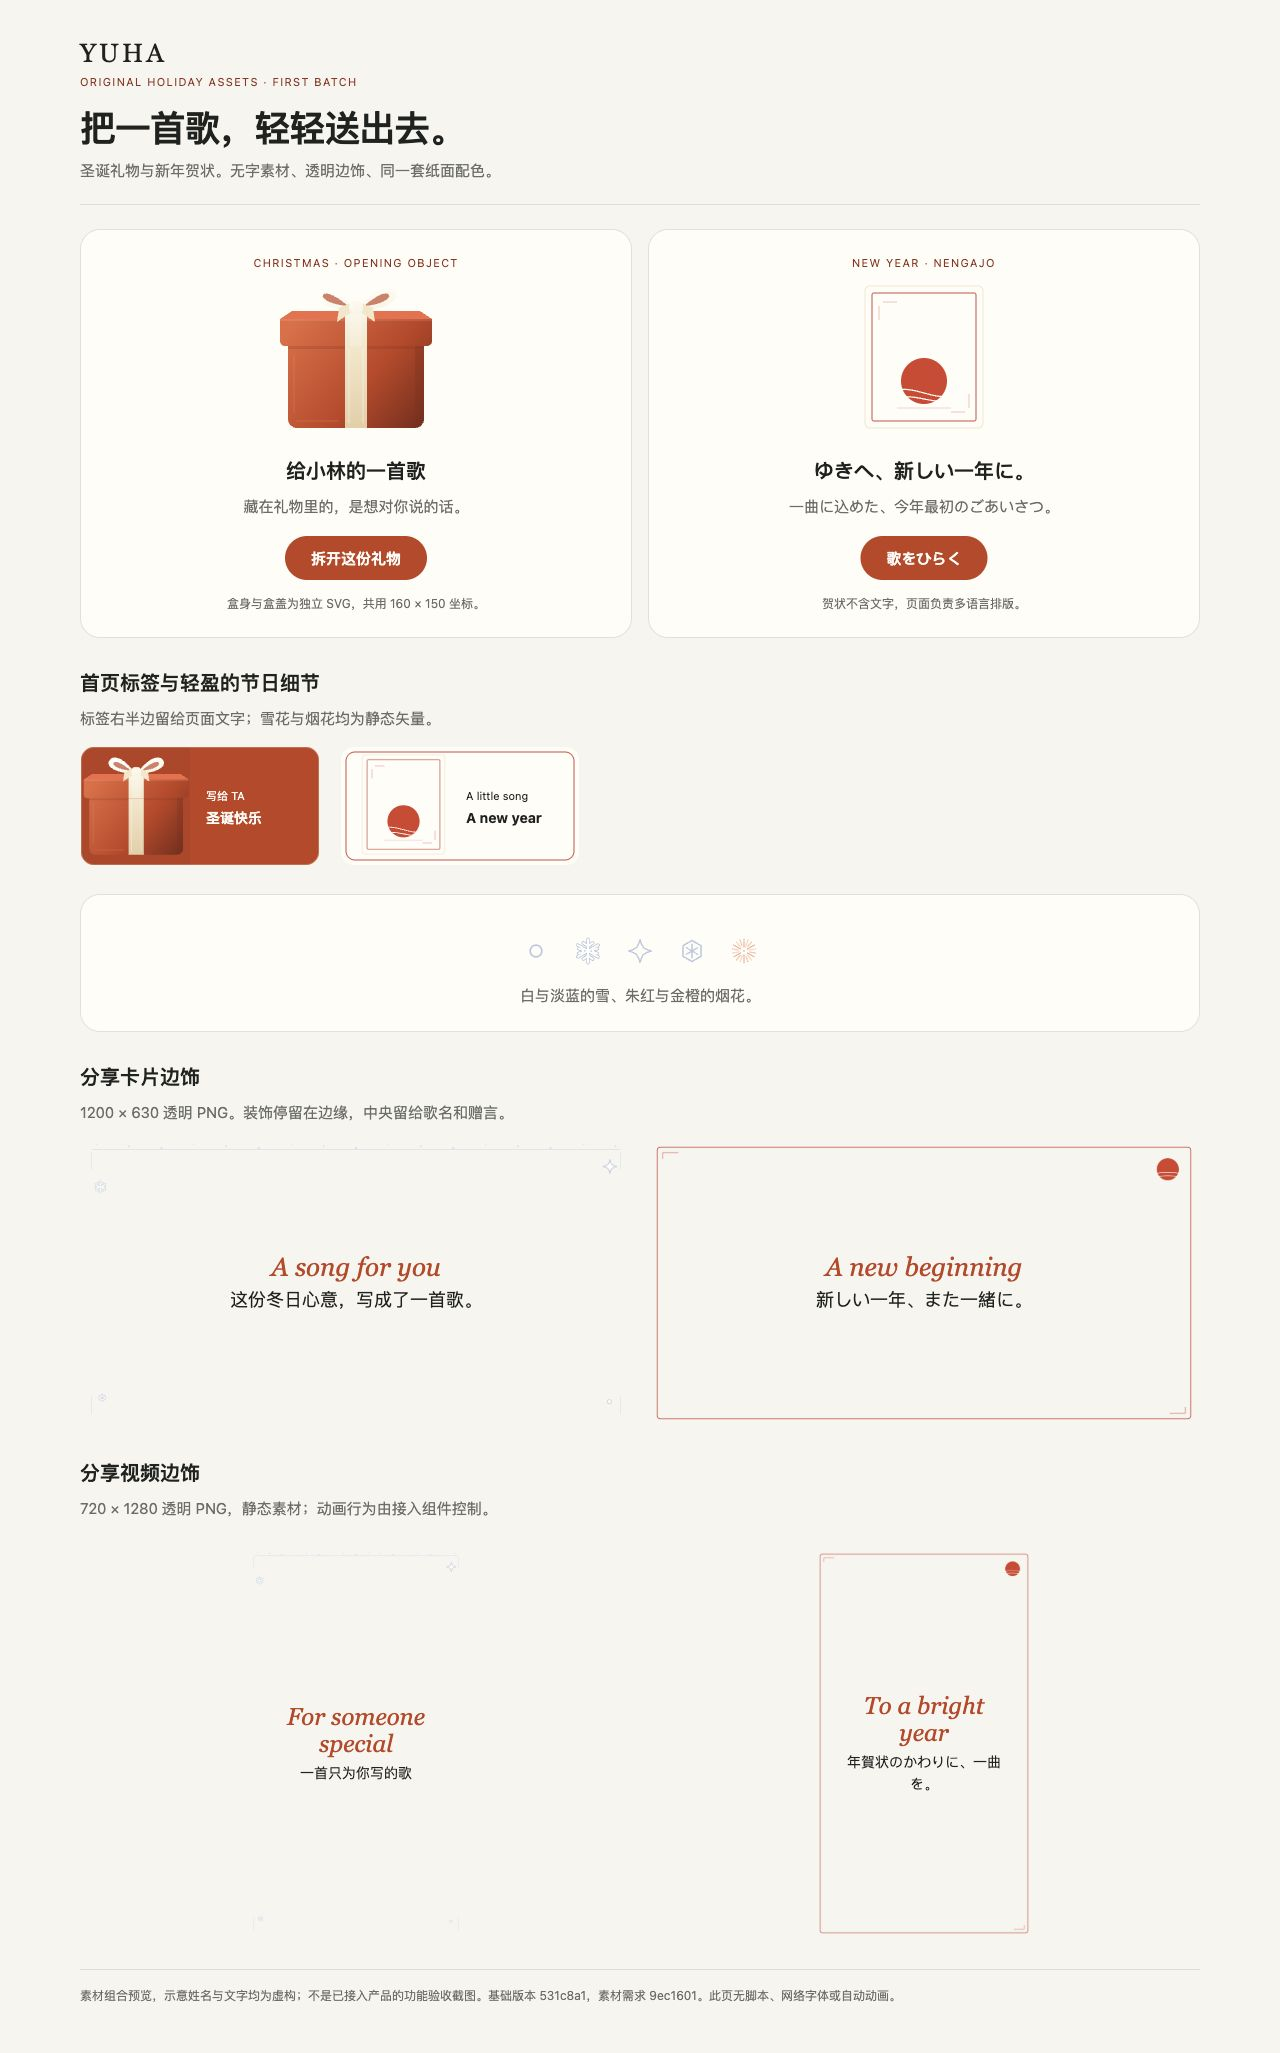
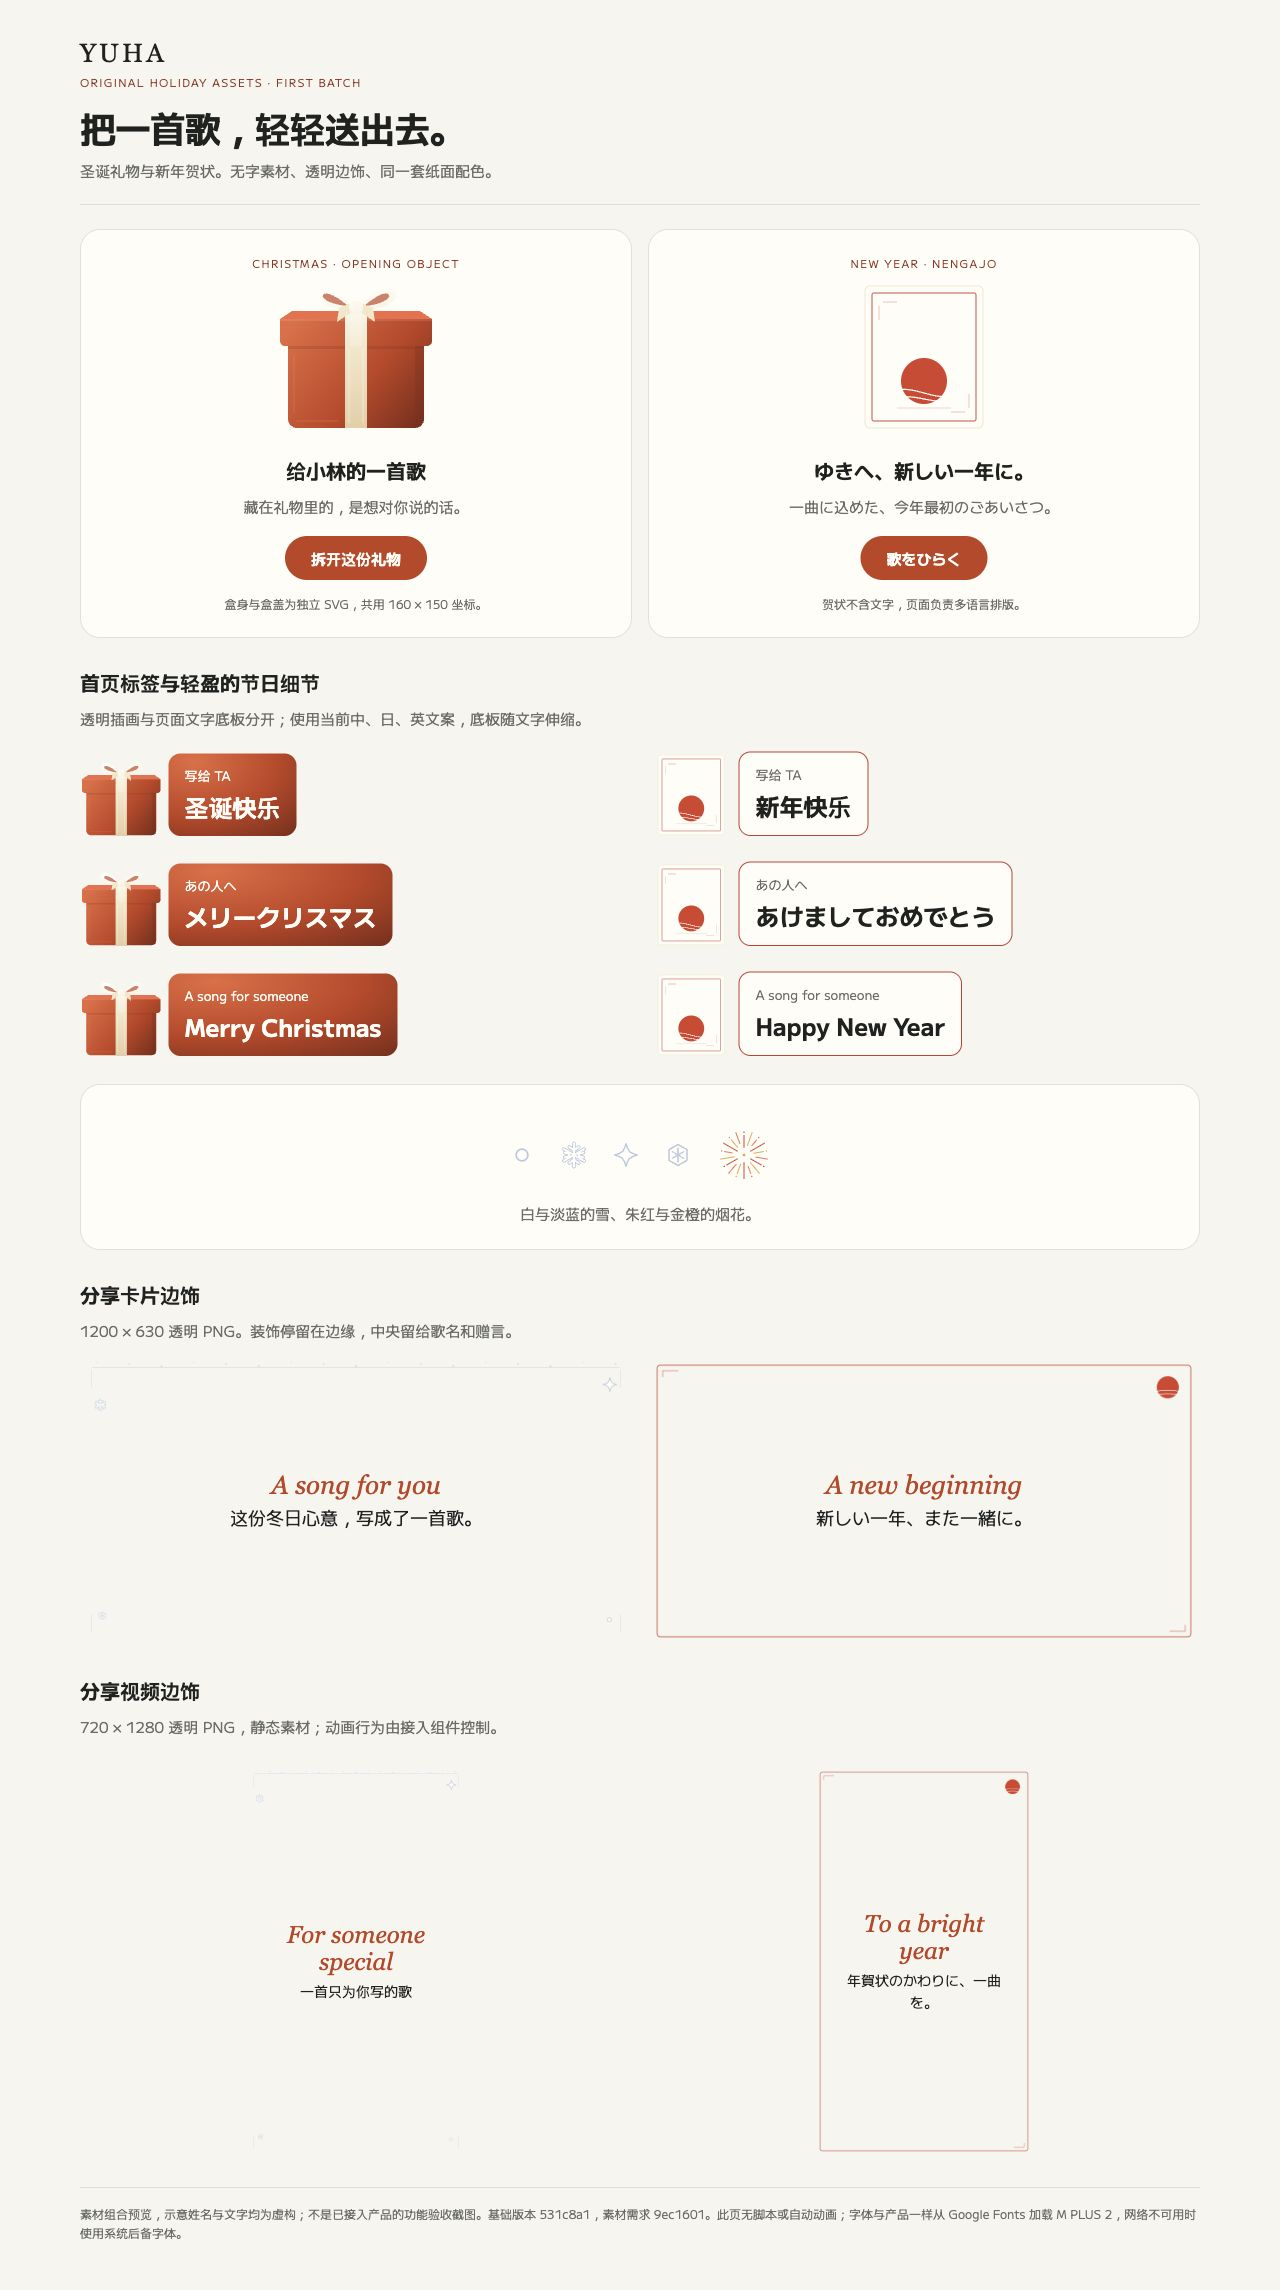
Separate holiday tag artwork from responsive text plates

diff --git a/docs/agents/visual-previews/holiday-preview.html b/docs/agents/visual-previews/holiday-preview.html
@@ -3,8 +3,10 @@
 <meta charset="utf-8">
 <meta name="viewport" content="width=device-width,initial-scale=1">
 <title>YUHA 节日素材预览</title>
+<link rel="stylesheet" href="https://fonts.googleapis.com/css2?family=M+PLUS+2:wght@400;500;700&amp;display=swap">
 <style>
-*{box-sizing:border-box}body{margin:0;background:#f6f5f0;color:#20221f;font:15px/1.6 system-ui,sans-serif}main{max-width:1160px;margin:auto;padding:32px 20px 48px}header{border-bottom:1px solid #dddcd4;padding-bottom:22px;margin-bottom:24px}.brand{font-family:Georgia,serif;font-size:26px;letter-spacing:.12em}h1{font-size:clamp(24px,4vw,36px);line-height:1.25;margin:14px 0 8px;letter-spacing:-.03em}h2{font-size:20px;margin:0 0 8px}p{margin:0;color:#6b6d66}.eyebrow{font-size:11px;letter-spacing:.12em;text-transform:uppercase;color:#92331e}.grid{display:grid;grid-template-columns:1fr 1fr;gap:16px}.panel{background:#fffdf8;border:1px solid #e2e0d6;border-radius:20px;padding:24px;text-align:center}.object{height:150px;width:160px;position:relative;margin:10px auto 22px}.object img{position:absolute;inset:0;width:100%;height:100%}.card-object img{object-fit:contain}.cta{display:inline-block;background:#c2411f;color:#fffdf8;border-radius:100px;padding:10px 26px;font-weight:600;margin-top:18px}.note{font-size:12px;color:#6b6d66;margin-top:14px}.section{margin-top:28px}.tags{display:flex;gap:20px;flex-wrap:wrap;margin-top:16px}.tag{position:relative;width:240px;height:120px;flex:none}.tag img{display:block;width:100%;height:100%}.tag-copy{position:absolute;inset:26px 16px 22px 126px;display:grid;align-content:center;gap:3px;color:#fffdf8;line-height:1.45;font-size:11px}.tag-copy strong{font-size:14px}.tag-newyear .tag-copy{color:#20221f}.flakes{display:flex;gap:24px;align-items:center;justify-content:center;margin:18px 0}.flakes img{width:28px;height:28px}.firework{width:80px;height:80px}.trim-grid{display:grid;grid-template-columns:1fr 1fr;gap:16px;margin-top:14px}.trim{position:relative;aspect-ratio:1200/630;background:#f6f5f0;border-radius:12px;overflow:hidden}.trim>img{width:100%;height:100%;position:absolute;inset:0}.trim-caption{position:absolute;inset:26% 16%;display:grid;align-content:center;justify-items:center;text-align:center;font-size:clamp(12px,1.5vw,18px)}.trim-caption b{font:italic 26px Georgia,serif;color:#c2411f;margin-bottom:4px}.portrait{aspect-ratio:720/1280;max-width:220px;width:100%;margin:0 auto}.portrait .trim-caption{inset:25% 14%;font-size:14px}.portrait .trim-caption b{font-size:24px}footer{margin-top:30px;border-top:1px solid #dddcd4;padding-top:16px;font-size:12px;color:#6b6d66}@media(max-width:620px){main{padding:24px 16px}.grid,.trim-grid{grid-template-columns:1fr}.panel{padding:22px 16px}.tags{justify-content:center}.trim-caption{font-size:12px}.trim-caption b{font-size:21px}.portrait{max-width:220px}}
+*{box-sizing:border-box}body{margin:0;background:#f6f5f0;color:#20221f;font:15px/1.6 "M PLUS 2","PingFang SC",system-ui,sans-serif}main{max-width:1160px;margin:auto;padding:32px 20px 48px}header{border-bottom:1px solid #dddcd4;padding-bottom:22px;margin-bottom:24px}.brand{font-family:Georgia,serif;font-size:26px;letter-spacing:.12em}h1{font-size:clamp(24px,4vw,36px);line-height:1.25;margin:14px 0 8px;letter-spacing:-.03em}h2{font-size:20px;margin:0 0 8px}p{margin:0;color:#6b6d66}.eyebrow{font-size:11px;letter-spacing:.12em;text-transform:uppercase;color:#92331e}.grid{display:grid;grid-template-columns:1fr 1fr;gap:16px}.panel{background:#fffdf8;border:1px solid #e2e0d6;border-radius:20px;padding:24px;text-align:center}.object{height:150px;width:160px;position:relative;margin:10px auto 22px}.object img{position:absolute;inset:0;width:100%;height:100%}.card-object img{object-fit:contain}.cta{display:inline-block;background:#c2411f;color:#fffdf8;border-radius:100px;padding:10px 26px;font-weight:600;margin-top:18px}.note{font-size:12px;color:#6b6d66;margin-top:14px}.section{margin-top:28px}.tags{display:grid;grid-template-columns:repeat(2,minmax(0,1fr));gap:20px;margin-top:16px}.tag{display:flex;align-items:flex-end;max-width:100%;gap:6px;min-width:0}.tag img{display:block;width:82.5px;height:90px;flex:none}.tag-copy{display:grid;align-content:center;gap:3px;min-width:0;padding:12px 16px;border-radius:12px;color:#fffdf8;background:radial-gradient(120% 120% at 20% 10%,#E8693F 0%,#C2411F 55%,#7E2A17 100%);font-size:13px;line-height:1.5}.tag-copy strong{font-size:clamp(16.8px,5vw,24px);font-weight:700;white-space:nowrap}.tag-newyear .tag-copy{color:#20221f;background:#fffdf8;border:1px solid #c8372a}.tag-newyear .tag-copy span{color:#6b6d66}.flakes{display:flex;gap:24px;align-items:center;justify-content:center;margin:18px 0}.flakes img{width:28px;height:28px}.flakes .firework{width:56px;height:56px}.trim-grid{display:grid;grid-template-columns:1fr 1fr;gap:16px;margin-top:14px}.trim{position:relative;aspect-ratio:1200/630;background:#f6f5f0;border-radius:12px;overflow:hidden}.trim>img{width:100%;height:100%;position:absolute;inset:0}.trim-caption{position:absolute;inset:26% 16%;display:grid;align-content:center;justify-items:center;text-align:center;font-size:clamp(12px,1.5vw,18px)}.trim-caption b{font:italic 26px Georgia,serif;color:#c2411f;margin-bottom:4px}.portrait{aspect-ratio:720/1280;max-width:220px;width:100%;margin:0 auto}.portrait .trim-caption{inset:25% 14%;font-size:14px}.portrait .trim-caption b{font-size:24px}footer{margin-top:30px;border-top:1px solid #dddcd4;padding-top:16px;font-size:12px;color:#6b6d66}@media(max-width:620px){main{padding:24px 16px}.grid,.trim-grid{grid-template-columns:1fr}.panel{padding:22px 16px}.tags{grid-template-columns:minmax(0,1fr)}.trim-caption{font-size:12px}.trim-caption b{font-size:21px}.portrait{max-width:220px}}
+@media(max-width:900px){.tags{grid-template-columns:minmax(0,1fr)}}
 </style>
 <main>
 <header><div class="brand">YUHA</div><div class="eyebrow">Original holiday assets · First batch</div><h1>把一首歌，轻轻送出去。</h1><p>圣诞礼物与新年贺状。无字素材、透明边饰、同一套纸面配色。</p></header>
@@ -12,9 +14,9 @@
 <section class="panel"><div class="eyebrow">Christmas · Opening object</div><div class="object"><img src="../../../apps/web/public/holiday/box.svg" alt=""><img src="../../../apps/web/public/holiday/lid.svg" alt=""></div><h2>给小林的一首歌</h2><p>藏在礼物里的，是想对你说的话。</p><span class="cta">拆开这份礼物</span><div class="note">盒身与盒盖为独立 SVG，共用 160 × 150 坐标。</div></section>
 <section class="panel"><div class="eyebrow">New year · Nengajo</div><div class="object card-object"><img src="../../../apps/web/public/holiday/nengajo.svg" alt=""></div><h2>ゆきへ、新しい一年に。</h2><p>一曲に込めた、今年最初のごあいさつ。</p><span class="cta">歌をひらく</span><div class="note">贺状不含文字，页面负责多语言排版。</div></section>
 </div>
-<section class="section"><h2>首页标签与轻盈的节日细节</h2><p>标签右半边留给页面文字；雪花与烟花均为静态矢量。</p><div class="tags"><div class="tag"><img src="../../../apps/web/public/holiday/tag-xmas.svg" alt=""><div class="tag-copy"><span>写给 TA</span><strong>圣诞快乐</strong></div></div><div class="tag tag-newyear"><img src="../../../apps/web/public/holiday/tag-newyear.svg" alt=""><div class="tag-copy"><span>A little song</span><strong>A new year</strong></div></div></div><div class="panel section"><div class="flakes"><img src="../../../apps/web/public/holiday/snow-1.svg" alt=""><img src="../../../apps/web/public/holiday/snow-2.svg" alt=""><img src="../../../apps/web/public/holiday/snow-3.svg" alt=""><img src="../../../apps/web/public/holiday/snow-4.svg" alt=""><img class="firework" src="../../../apps/web/public/holiday/fireworks.svg" alt=""></div><p>白与淡蓝的雪、朱红与金橙的烟花。</p></div></section>
+<section class="section"><h2>首页标签与轻盈的节日细节</h2><p>透明插画与页面文字底板分开；使用当前中、日、英文案，底板随文字伸缩。</p><div class="tags"><div class="tag tag-xmas" lang="zh"><img src="../../../apps/web/public/holiday/tag-xmas-art.svg" alt=""><div class="tag-copy"><span>写给 TA</span><strong>圣诞快乐</strong></div></div><div class="tag tag-newyear" lang="zh"><img src="../../../apps/web/public/holiday/tag-newyear-art.svg" alt=""><div class="tag-copy"><span>写给 TA</span><strong>新年快乐</strong></div></div><div class="tag tag-xmas" lang="ja"><img src="../../../apps/web/public/holiday/tag-xmas-art.svg" alt=""><div class="tag-copy"><span>あの人へ</span><strong>メリークリスマス</strong></div></div><div class="tag tag-newyear" lang="ja"><img src="../../../apps/web/public/holiday/tag-newyear-art.svg" alt=""><div class="tag-copy"><span>あの人へ</span><strong>あけましておめでとう</strong></div></div><div class="tag tag-xmas" lang="en"><img src="../../../apps/web/public/holiday/tag-xmas-art.svg" alt=""><div class="tag-copy"><span>A song for someone</span><strong>Merry Christmas</strong></div></div><div class="tag tag-newyear" lang="en"><img src="../../../apps/web/public/holiday/tag-newyear-art.svg" alt=""><div class="tag-copy"><span>A song for someone</span><strong>Happy New Year</strong></div></div></div><div class="panel section"><div class="flakes"><img src="../../../apps/web/public/holiday/snow-1.svg" alt=""><img src="../../../apps/web/public/holiday/snow-2.svg" alt=""><img src="../../../apps/web/public/holiday/snow-3.svg" alt=""><img src="../../../apps/web/public/holiday/snow-4.svg" alt=""><img class="firework" src="../../../apps/web/public/holiday/fireworks.svg" alt=""></div><p>白与淡蓝的雪、朱红与金橙的烟花。</p></div></section>
 <section class="section"><h2>分享卡片边饰</h2><p>1200 × 630 透明 PNG。装饰停留在边缘，中央留给歌名和赠言。</p><div class="trim-grid"><div class="trim"><img src="../../../apps/web/public/holiday/xmas.png" alt=""><div class="trim-caption"><b>A song for you</b><span>这份冬日心意，写成了一首歌。</span></div></div><div class="trim"><img src="../../../apps/web/public/holiday/newyear.png" alt=""><div class="trim-caption"><b>A new beginning</b><span>新しい一年、また一緒に。</span></div></div></div></section>
 <section class="section"><h2>分享视频边饰</h2><p>720 × 1280 透明 PNG，静态素材；动画行为由接入组件控制。</p><div class="grid section"><div class="trim portrait"><img src="../../../apps/web/public/holiday/video-xmas.png" alt=""><div class="trim-caption"><b>For someone special</b><span>一首只为你写的歌</span></div></div><div class="trim portrait"><img src="../../../apps/web/public/holiday/video-newyear.png" alt=""><div class="trim-caption"><b>To a bright year</b><span>年賀状のかわりに、一曲を。</span></div></div></div></section>
-<footer>素材组合预览，示意姓名与文字均为虚构；不是已接入产品的功能验收截图。基础版本 531c8a1，素材需求 9ec1601。此页无脚本、网络字体或自动动画。</footer>
+<footer>素材组合预览，示意姓名与文字均为虚构；不是已接入产品的功能验收截图。基础版本 531c8a1，素材需求 9ec1601。此页无脚本或自动动画；字体与产品一样从 Google Fonts 加载 M PLUS 2，网络不可用时使用系统后备字体。</footer>
 </main>
 </html>

diff --git a/docs/agents/visual-previews/holiday-handoff.md b/docs/agents/visual-previews/holiday-handoff.md
@@ -2,13 +2,16 @@
 
 第一批素材对应 `CODEX_VISUAL_REQUESTS.md` 的 1 至 7 项，基础版本为 master `531c8a1`，需求文本自 `9ec1601` 未变。第二批 X 广告图与视频封面不在本次交付中。
 
+标签按 [Claude 的接入审查与方案一请求](https://github.com/lth2015/yuha/pull/90#issuecomment-7074325393) 修订。最初的 96px 固定文字区无法容纳实际日文和英文；当前接入应使用下面两张透明插画，由页面独立排版文字与底板。
+
 ## 素材与接入
 
 | 文件 | 尺寸 | 接入位置与注意事项 |
 | --- | --- | --- |
 | `box.svg`、`lid.svg` | 各 160 × 150 | `HolidayOpening`。两个透明图层共用完整坐标系，盒盖单独向上移动即可拆开；图层应占满 object 的 160 × 150，不要再套用原占位 span 的 top、left、height，否则会重复偏移。 |
 | `nengajo.svg` | 130 × 150 | 新年开场的完整静态贺状。独立太阳上升动画可改用同尺寸、同坐标的 `nengajo-card.svg` 与 `nengajo-sun.svg` 两个透明图层；不要在完整贺状上再画一个太阳。 |
-| `tag-xmas.svg`、`tag-newyear.svg` | 各 240 × 120 | 首页标签。主要插画在左半边，文字安全区域为 x 126 至 222、y 24 至 98。圣诞背景右半为深橙，可用现有白色字；新年背景为纸白，使用现有墨色字。三种语言仍由页面排版。 |
+| `tag-xmas-art.svg`、`tag-newyear-art.svg` | 各 110 × 120 | 首页接入用透明插画，只有礼盒或贺状，没有右侧底板。放在文字左侧，与 CSS 底板下边对齐。两张图的可见下缘均到 y 119，距画布下边 1px。文字和底板宽度由页面决定，不使用固定文字槽。 |
+| `tag-xmas.svg`、`tag-newyear.svg` | 各 240 × 120 | 仅保留为最初构图参考，不用于接入；其中的 96px 固定文字槽不能承载当前三语言文案。 |
 | `snow-1.svg` 至 `snow-4.svg` | 各 24 × 24 | `Snow`。白色带淡蓝边；可用 image 或 background-image 替换圆点。小尺寸建议先看清晰度再决定是否使用六角款。 |
 | `fireworks.svg` | 128 × 128 | `Fireworks`。一次完整绽放，朱红、金、品牌橙；图中没有内嵌动画或脚本。现有组件控制出现、缩放与淡出。 |
 | `xmas.png`、`newyear.png` | 各 1200 × 630 | 分享卡片透明边饰，按完整画布绘制，在标题和赠言之前叠加。 |
@@ -17,6 +20,10 @@
 
 素材位于 `apps/web/public/holiday/`。每张 PNG 的中央安全区 x 96 至 width − 96、y 112 至 height − 96 均完全透明。顶部角落和边框仍会绘制，接入后应检查实际 logo、文字、歌词与边框的关系。
 
+透明标签的插画轮廓可直接叠在页面纸色或底板旁，不需要把右缘补成某种纯色。礼盒使用原有深橙渐变，最深边缘为 `#7E2A17`；贺状纸色为 `#fffdf8`，朱红细框为 `#c8372a`。页面继续使用深橙配白字、纸白配墨色的底板。预览中的 flex 排版仅用于展示分离后的素材与实际三语言文字，不替代 Claude 的产品 CSS。
+
+贺状太阳上的两道浅色曲线是日轮纹理，随 `nengajo-sun.svg` 一起上升是设计意图，无需另做不动的波浪层。
+
 **分享卡片的坐标不能直接套用现有函数参数。** 现有 `drawHolidayTrim` 对卡片传入的是右侧 570 × 630 区域；本次 PNG 是完整 1200 × 630。应在完整画布上绘制，或明确裁切后绘制，不能把整张 PNG 压进右侧区域。视频则已经传入完整帧。
 
 素材不含文字、外链、字体、脚本、动画或真实用户信息。全部为本次原创矢量几何，PNG 从对应 SVG 渲染。未增加依赖，未修改组件、业务代码、CSS、价格、支付、季节判断或发布配置。
@@ -24,8 +31,9 @@
 ## 验证与预览
 
 - `holiday-manifest.json` 记录每个素材的字节数、尺寸和透明通道。
-- `holiday-preview.html` 展示盒身与盒盖组合、贺状、标签与四张边饰；使用虚构示意文字。
+- `holiday-preview.html` 展示盒身与盒盖组合、贺状、透明标签与四张边饰。标签使用当前产品的中日英六条节日问候，其余姓名和说明为虚构示意文字。字体与产品一样加载 M PLUS 2，网络不可用时回退到系统字体。
 - `holiday-360.png`、`holiday-1280.png` 是该静态素材组合页在对应视口宽度下的截图，不是已接入产品的功能验收截图。
 - SVG 大小、可解析性、无活动内容、PNG 尺寸与透明安全区已经检查。预览页检查图片加载和横向溢出。
+- 标签修订预览在 360、393、768、1280 四个宽度下检查实际六条中日英问候语。M PLUS 2 的浏览器字体就绪检查通过，六条问候语在各宽度下均保持单行，文字未越出底板，标签未越出视口；360 宽下展示的 18 张图片全部加载。
 
 Claude 接入后仍需完成需求中的真实页面 `check:ui`、三语言和对比度检查，以及系统减少动态效果下无动画的验收。素材本身不动，不代表接入组件已经遵守减少动态效果。
